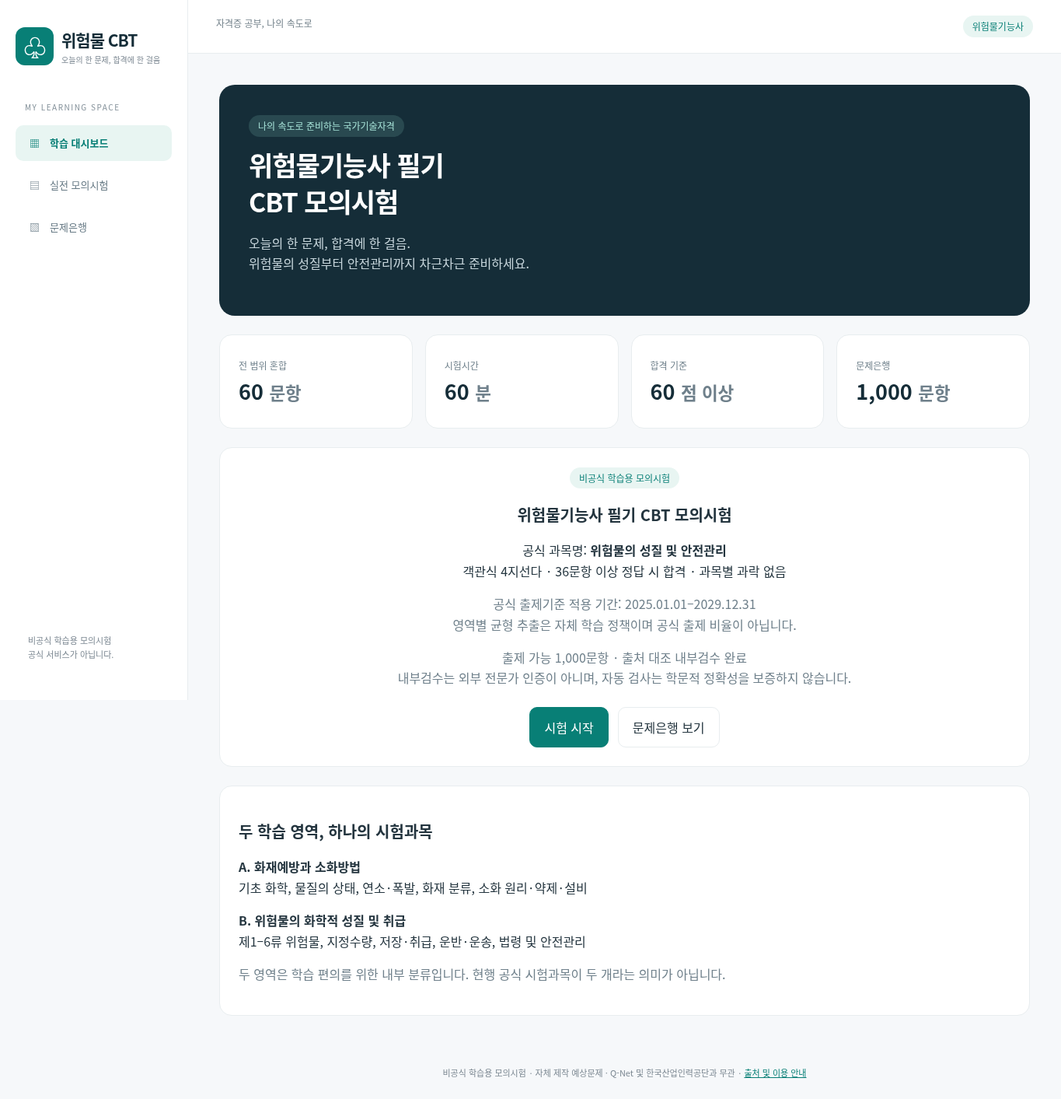
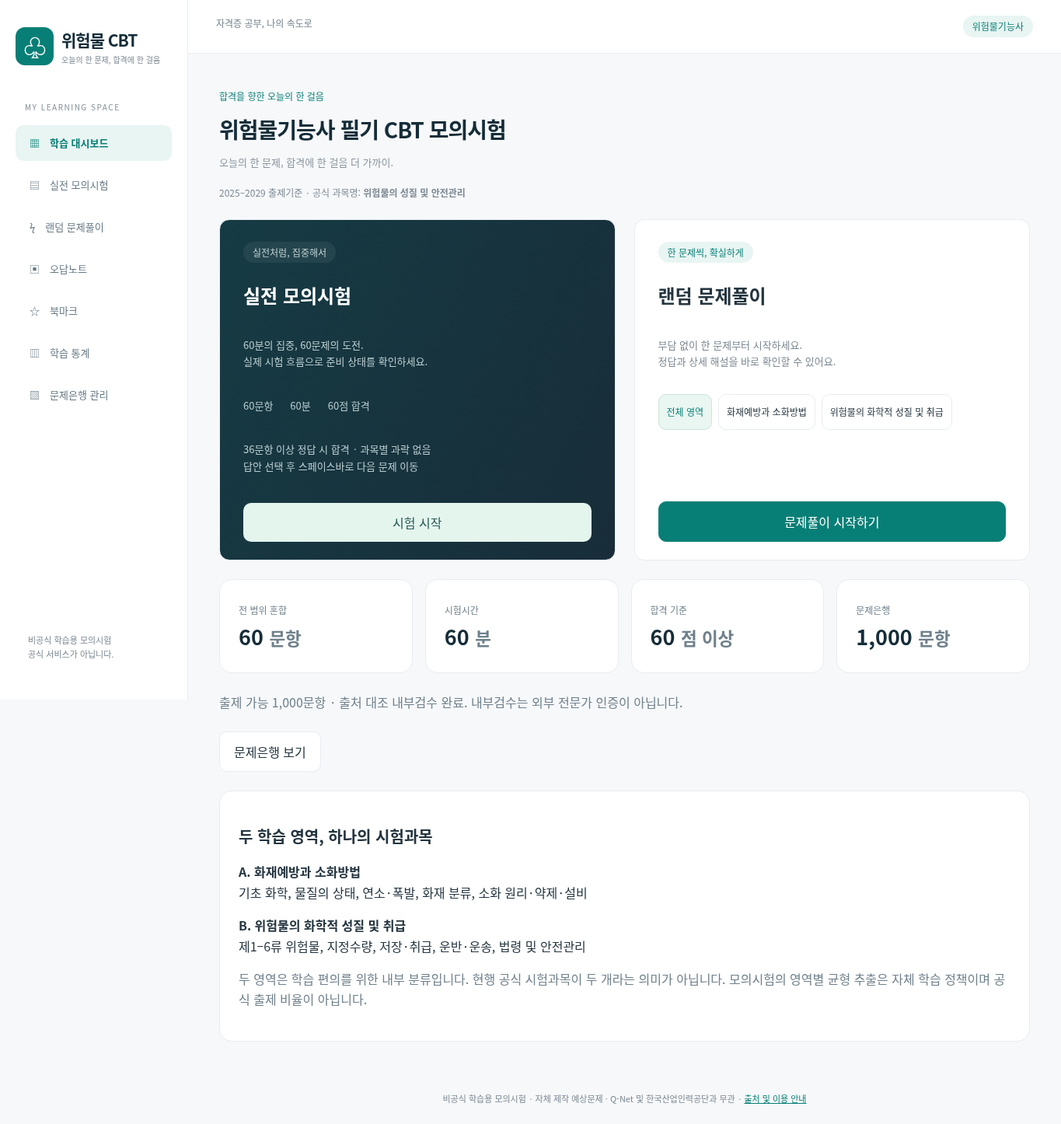
Match electrician CBT study modes and Space navigation

diff --git a/src/app.js b/src/app.js
@@ -1,28 +1,58 @@
+import {PRACTICE_KEY,LEARNING_KEY,createPractice,choosePractice,nextPractice,restorePractice,emptyLearning,restoreLearning,recordAttempt} from './practice.js';
 import {SUBJECT, AREAS, STORAGE_KEY, eligible, createExam, remaining, answer, submit, grade, restore} from './model.js';
 const app = document.querySelector('#app'), notice = document.querySelector('#notice');
 let sourceRegistry = {}, bank = [], exam = null, view = 'home', filter = '', area = '', page = 0, reviewOnly = true, safeStorage = true;
+let practice=null, practiceArea='', learning=emptyLearning();
+const blockedStorage=new Set();
 const esc = v => String(v).replace(/[&<>"']/g, c => ({'&':'&amp;','<':'&lt;','>':'&gt;','"':'&quot;',"'":'&#39;'}[c]));
 function save() {
   if (!safeStorage) return;
   try { localStorage.setItem(STORAGE_KEY, JSON.stringify(exam)); }
   catch { notice.textContent = '기록 저장이 차단되었거나 공간이 부족합니다. 이 창에서는 계속 풀 수 있지만 새로고침 시 복원되지 않을 수 있습니다.'; }
 }
-function go(next) { view = next; render(); app.focus(); }
+function saveStudy(key,value){
+ if(blockedStorage.has(key))return;
+ try{localStorage.setItem(key,JSON.stringify(value));}catch{blockedStorage.add(key);notice.textContent='학습 기록을 저장할 수 없습니다. 현재 창에서 계속 학습할 수 있지만 새로고침 시 복원되지 않을 수 있습니다.';}
+}
+function focusQuestion(scroll=false){document.querySelector('#question-title')?.focus({preventScroll:!scroll});if(scroll)window.scrollTo({top:0});}
+function startPractice(fresh=true,ids=null){
+ try{if(fresh||!practice)practice=createPractice(bank,ids?'':practiceArea,Math.random,ids);saveStudy(PRACTICE_KEY,practice);go('practice');focusQuestion(true);}catch(e){notice.textContent=e.message;}
+}
+function advancePractice(){if(!practice||practice.selected===null)return;practice=nextPractice(practice);saveStudy(PRACTICE_KEY,practice);render();focusQuestion(true);}
+function currentQuestion(){return view==='exam'&&exam?bank.find(q=>q.id===exam.ids[exam.index]):view==='practice'&&practice?bank.find(q=>q.id===practice.ids[practice.index]):null;}
+function bookmarkButton(q){const marked=learning.bookmarks.includes(q.id);return `<button data-bookmark="${esc(q.id)}" aria-pressed="${marked}" class="bookmark-button">${marked?'★ 북마크 해제':'☆ 북마크'}</button>`;}
+function recordExam(){
+ if(!exam||exam.submittedAt===null)return;
+ const id=`${exam.startedAt}:${exam.ids.join(',')}`;if(learning.completedExams.includes(id))return;
+ for(const qid of exam.ids)learning=recordAttempt(learning,bank.find(q=>q.id===qid),exam.answers[qid]||0);
+ const r=grade(exam,bank);learning={...learning,completedExams:[...learning.completedExams,id],exams:[{at:exam.submittedAt,score:r.score,correct:r.correct,passed:r.passed},...learning.exams].slice(0,100)};saveStudy(LEARNING_KEY,learning);
+}
+function practicePicker(){return `<div class="subject-picker">${['',...AREAS].map(a=>`<button data-practice-area="${esc(a)}" class="${practiceArea===a?'picked':''}" aria-pressed="${practiceArea===a}">${a?esc(a):'전체 영역'}</button>`).join('')}</div>`;}
+function practiceScreen(){
+ if(!practice)return `<h1>랜덤 문제풀이</h1><section class="panel center"><span class="tag">한 문제씩, 확실하게</span><h2>어떤 영역을 공부할까요?</h2><p>답안을 선택하면 정답과 상세 해설을 바로 확인할 수 있습니다.</p>${practicePicker()}<div class="actions">${action('문제풀이 시작하기','practiceStart','primary')}</div></section>`;
+ const q=currentQuestion(),revealed=practice.selected!==null,correct=practice.selected===q.answer;
+ return `<h1>랜덤 문제풀이</h1><p class="muted">한 문제씩 이해하고, 해설로 확실하게 내 것으로 만드세요.</p><div class="practice-toolbar"><span class="tag">${esc(practice.area||'전체 영역')}</span><span>연속 정답 <b>${practice.streak}</b></span><span>이번 학습 정답률 <b>${practice.answered?Math.round(practice.correct/practice.answered*100):0}%</b> (${practice.correct}/${practice.answered})</span><label>학습 영역 변경 <select id="practice-area"><option value="">전체 영역</option>${AREAS.map(a=>`<option ${practice.area===a?'selected':''}>${esc(a)}</option>`).join('')}</select></label></div><section class="panel practice-question"><div class="question-meta"><span class="tag">${esc(q.topic)} · ${esc(q.difficulty)}</span>${bookmarkButton(q)}</div><p class="muted">${practice.cycle}번째 순회 · ${practice.index+1} / ${practice.ids.length}문항</p><h2 class="question" id="question-title" tabindex="-1">${esc(q.question)}</h2><div class="choices" role="group" aria-label="답안 선택">${q.options.map((v,i)=>`<button class="choice ${practice.selected===i+1?'selected':''} ${revealed&&q.answer===i+1?'answer-correct':''}" data-practice-choice="${i+1}" aria-pressed="${practice.selected===i+1}" ${revealed?'disabled':''}><b>${i+1}</b><span>${esc(v)}${revealed&&q.answer===i+1?' (정답)':''}</span></button>`).join('')}</div>${revealed?`<div class="answer-feedback ${correct?'good':'bad'}" role="status">${correct?'정답입니다! 잘하고 있어요.':`아쉬워요. 정답은 ${q.answer}번입니다.`}</div><div class="practice-explanation"><h3>정답 해설</h3><p>${esc(q.explanation)}</p><details class="evidence"><summary>출처 및 출제기준</summary><p>${esc(q.criterion)}</p>${q.review.evidence.map(e=>`<p>${esc(sourceRegistry[e.sourceId]?.title||e.sourceId)} · ${esc(e.locator)}</p>`).join('')}</details></div>`:''}<div class="actions">${action('다음 문제 →','practiceNext','primary',!revealed)}</div><p class="muted">답안을 선택하면 즉시 채점됩니다. 채점 후 <kbd>Space</kbd> 키로 다음 문제로 이동할 수 있습니다.</p></section>`;
+}
+function collectionScreen(kind){
+ const ids=kind==='wrong'?Object.keys(learning.wrong):learning.bookmarks,items=bank.filter(q=>ids.includes(q.id));
+ return `<h1>${kind==='wrong'?'오답노트':'북마크'}</h1><p>${items.length}문항 · ${kind==='wrong'?'틀린 문제와 미응답을 다시 확인하고, 맞힌 문제는 자동으로 제외합니다.':'다시 보고 싶은 문제를 모았습니다.'}</p>${items.length?`<div class="actions">${action(kind==='wrong'?'오답 다시 풀기':'북마크 문제 풀기',kind==='wrong'?'wrongPractice':'bookmarkPractice','primary')}</div>${items.map((q,i)=>`<details class="collection-item"><summary>${esc(q.id)} · ${esc(q.question.slice(0,160))}</summary>${bookmarkButton(q)}${reviewCard(q,i,learning.wrong[q.id]||null,kind!=='wrong')}</details>`).join('')}`:'<section class="panel center">아직 저장된 문제가 없습니다. 문제풀이를 시작해 보세요.</section>'}`;
+}
+function statsScreen(){return `<h1>학습 통계</h1><p class="muted">실전 모의시험과 랜덤 문제풀이 기록으로 학습의 방향을 찾아보세요.</p><div class="cards"><div class="card"><span>학습한 문제</span><strong>${learning.total}</strong></div><div class="card"><span>전체 정답률</span><strong>${learning.total?Math.round(learning.correct/learning.total*100):0}%</strong></div><div class="card"><span>오답노트</span><strong>${Object.keys(learning.wrong).length}</strong></div><div class="card"><span>완료한 시험</span><strong>${learning.completedExams.length}</strong></div></div><section class="panel"><h2>학습 영역별 정답률</h2>${AREAS.map(a=>{const r=learning.areas[a]||{total:0,correct:0};return `<p>${esc(a)} · ${r.correct} / ${r.total} (${r.total?Math.round(r.correct/r.total*100):0}%)</p>`;}).join('')}</section><section class="panel history-panel"><h2>최근 모의시험 기록</h2>${learning.exams.length?learning.exams.slice(0,20).map(e=>`<p>${esc(new Date(e.at).toLocaleString('ko-KR'))} · ${e.score.toFixed(1)}점 · ${e.passed?'합격':'불합격'}</p>`).join(''):'<p class="muted">아직 완료한 모의시험이 없습니다.</p>'}</section>`;}
+function go(next) { view = next; saveStudy('hazardous-materials-cbt:last-view',next);render(); app.focus(); }
 function action(label, id, cls = '', disabled = false) { return `<button data-action="${id}" class="${cls}" ${disabled ? 'disabled' : ''}>${label}</button>`; }
 function home() {
-  const count = bank.filter(eligible).length;
-  return `<section class="hero"><span class="tag">나의 속도로 준비하는 국가기술자격</span><h1>위험물기능사 필기<br>CBT 모의시험</h1><p>오늘의 한 문제, 합격에 한 걸음.<br>위험물의 성질부터 안전관리까지 차근차근 준비하세요.</p></section>
-  <div class="cards"><div class="card"><span>전 범위 혼합</span><strong>60 <small>문항</small></strong></div><div class="card"><span>시험시간</span><strong>60 <small>분</small></strong></div><div class="card"><span>합격 기준</span><strong>60 <small>점 이상</small></strong></div><div class="card"><span>문제은행</span><strong>1,000 <small>문항</small></strong></div></div>
-  <section class="panel center"><span class="tag">비공식 학습용 모의시험</span><h2>위험물기능사 필기 CBT 모의시험</h2><p>공식 과목명: <b>${SUBJECT}</b><br>객관식 4지선다 · 36문항 이상 정답 시 합격 · 과목별 과락 없음</p><p class="muted">공식 출제기준 적용 기간: 2025.01.01–2029.12.31<br>영역별 균형 추출은 자체 학습 정책이며 공식 출제 비율이 아닙니다.</p>
-  ${count === 1000 ? '<p class="muted">출제 가능 1,000문항 · 출처 대조 내부검수 완료<br>내부검수는 외부 전문가 인증이 아니며, 자동 검사는 학문적 정확성을 보증하지 않습니다.</p>' : ''}
-  ${count !== 1000 ? `<div class="warning">문제은행 준비 중 · 출제 가능 ${count.toLocaleString()} / 1,000문항<br>실제 수록 ${bank.length}문항 · 정확성 검수 대기 ${bank.filter(q=>!eligible(q)).length}문항<br>원문 대조·내부검수를 마친 문항만 출제 대상으로 관리합니다. 1,000문항 확보 전에는 시험을 시작하지 않습니다.</div>` : ''}
-  <div class="actions">${action(exam && exam.submittedAt === null ? '시험 이어하기' : '시험 시작', 'start', 'primary', count !== 1000)}${action('문제은행 보기', 'bank')}</div></section>
-  <section class="panel" style="margin-top:24px"><h2>두 학습 영역, 하나의 시험과목</h2><p><b>A. ${AREAS[0]}</b><br>기초 화학, 물질의 상태, 연소·폭발, 화재 분류, 소화 원리·약제·설비</p><p><b>B. ${AREAS[1]}</b><br>제1–6류 위험물, 지정수량, 저장·취급, 운반·운송, 법령 및 안전관리</p><p class="muted">두 영역은 학습 편의를 위한 내부 분류입니다. 현행 공식 시험과목이 두 개라는 의미가 아닙니다.</p></section>`;
+ const count=bank.filter(eligible).length;
+ return `<section class="hero"><span class="tag">합격을 향한 오늘의 한 걸음</span><h1>위험물기능사 필기 CBT 모의시험</h1><p>오늘의 한 문제, 합격에 한 걸음 더 가까이.</p></section><p class="criteria-note">2025–2029 출제기준 · 공식 과목명: <b>${SUBJECT}</b></p>
+ <div class="mode-grid" aria-label="시험 모드"><section class="panel exam-mode"><span class="tag">실전처럼, 집중해서</span><h2>실전 모의시험</h2><p>60분의 집중, 60문제의 도전.<br>실제 시험 흐름으로 준비 상태를 확인하세요.</p><div class="mode-facts"><span>60문항</span><span>60분</span><span>60점 합격</span></div><p class="muted">36문항 이상 정답 시 합격 · 과목별 과락 없음<br>답안 선택 후 스페이스바로 다음 문제 이동</p><div class="actions">${action(exam&&exam.submittedAt===null?'시험 이어하기':'시험 시작','start','primary',count!==1000)}</div></section>
+ <section class="panel practice-mode"><span class="tag">한 문제씩, 확실하게</span><h2>랜덤 문제풀이</h2><p>부담 없이 한 문제부터 시작하세요.<br>정답과 상세 해설을 바로 확인할 수 있어요.</p>${practicePicker()}<div class="actions">${action('문제풀이 시작하기','practiceStart','primary',count!==1000)}${practice?action('이전 학습 이어하기','practiceContinue'):''}</div></section></div>
+ <div class="cards"><div class="card"><span>전 범위 혼합</span><strong>60 <small>문항</small></strong></div><div class="card"><span>시험시간</span><strong>60 <small>분</small></strong></div><div class="card"><span>합격 기준</span><strong>60 <small>점 이상</small></strong></div><div class="card"><span>문제은행</span><strong>1,000 <small>문항</small></strong></div></div>
+ ${count===1000?'<p class="muted">출제 가능 1,000문항 · 출처 대조 내부검수 완료. 내부검수는 외부 전문가 인증이 아닙니다.</p>':`<div class="warning">문제은행 준비 중 · 출제 가능 ${count.toLocaleString()} / 1,000문항<br>실제 수록 ${bank.length}문항 · 검수 대기 ${bank.filter(q=>!eligible(q)).length}문항</div>`}
+ <div class="actions">${action('문제은행 보기','bank')}</div><section class="panel history-panel"><h2>두 학습 영역, 하나의 시험과목</h2><p><b>A. ${AREAS[0]}</b><br>기초 화학, 물질의 상태, 연소·폭발, 화재 분류, 소화 원리·약제·설비</p><p><b>B. ${AREAS[1]}</b><br>제1–6류 위험물, 지정수량, 저장·취급, 운반·운송, 법령 및 안전관리</p><p class="muted">두 영역은 학습 편의를 위한 내부 분류입니다. 현행 공식 시험과목이 두 개라는 의미가 아닙니다. 모의시험의 영역별 균형 추출은 자체 학습 정책이며 공식 출제 비율이 아닙니다.</p></section>`;
 }
 function examScreen() {
   const q = bank.find(q => q.id === exam.ids[exam.index]);
   const answered = Object.keys(exam.answers).length;
-  return `<div class="exam-top"><div><span class="tag">실전 모의시험</span><b>　${exam.index + 1} / 60</b></div><div aria-label="남은 시간" class="timer" id="timer"></div></div><div class="exam-grid"><section class="panel"><span class="muted">${esc(q.area)} · ${esc(q.topic)}</span><h1 class="question" id="question-title" tabindex="-1">${exam.index+1}. ${esc(q.question)}</h1><div class="choices" role="group" aria-label="답안 선택">${q.options.map((c,i) => `<button class="choice ${exam.answers[q.id] === i+1 ? 'selected' : ''}" data-choice="${i+1}" aria-pressed="${exam.answers[q.id] === i+1}"><b>${i+1}</b><span>${esc(c)}</span></button>`).join('')}</div><div class="actions">${action('← 이전 문제','prev','',exam.index===0)}${action('다음 문제 →','next','primary',exam.index===59)}</div></section><section class="panel"><h2>답안 현황</h2><p>${answered}문항 응답 · 미응답 ${60-answered}문항</p><progress value="${answered}" max="60" aria-label="응답 진행률"></progress><div class="numbers">${exam.ids.map((id,i) => `<button data-index="${i}" class="${exam.answers[id] ? 'answered' : ''} ${exam.index===i?'current':''}" aria-label="${i+1}번 ${exam.answers[id]?'응답':'미응답'}" ${exam.index===i?'aria-current="true"':''}>${i+1}</button>`).join('')}</div><div class="actions">${action('미응답 확인','unanswered')}${action('시험 종료','finish','primary')}</div><p class="muted">초록색: 응답 완료<br>테두리: 현재 문제<br>답안은 제출 전까지 변경할 수 있습니다.</p></section></div>`;
+  return `<div class="exam-top"><div><span class="tag">실전 모의시험</span><b>　${exam.index + 1} / 60</b></div><div aria-label="남은 시간" class="timer" id="timer"></div></div><div class="exam-grid"><section class="panel"><div class="question-meta"><span class="muted">${esc(q.area)} · ${esc(q.topic)}</span>${bookmarkButton(q)}</div><h1 class="question" id="question-title" tabindex="-1">${exam.index+1}. ${esc(q.question)}</h1><div class="choices" role="group" aria-label="답안 선택">${q.options.map((c,i) => `<button class="choice ${exam.answers[q.id] === i+1 ? 'selected' : ''}" data-choice="${i+1}" aria-pressed="${exam.answers[q.id] === i+1}"><b>${i+1}</b><span>${esc(c)}</span></button>`).join('')}</div><div class="actions">${action('← 이전 문제','prev','',exam.index===0)}${action('다음 문제 →','next','primary',exam.index===59)}</div><p class="muted">답안 선택 후 <kbd>Space</kbd> 키로 다음 문제로 이동합니다. 마지막 문제는 직접 제출하세요.</p></section><section class="panel"><h2>답안 현황</h2><p>${answered}문항 응답 · 미응답 ${60-answered}문항</p><progress value="${answered}" max="60" aria-label="응답 진행률"></progress><div class="numbers">${exam.ids.map((id,i) => `<button data-index="${i}" class="${exam.answers[id] ? 'answered' : ''} ${exam.index===i?'current':''}" aria-label="${i+1}번 ${exam.answers[id]?'응답':'미응답'}" ${exam.index===i?'aria-current="true"':''}>${i+1}</button>`).join('')}</div><div class="actions">${action('미응답 확인','unanswered')}${action('시험 종료','finish','primary')}</div><p class="muted">초록색: 응답 완료<br>테두리: 현재 문제<br>답안은 제출 전까지 변경할 수 있습니다.</p></section></div>`;
 }
 function resultScreen() {
   const r = grade(exam, bank);
@@ -43,10 +73,10 @@ function bankScreen() {
 }
 function render() {
   document.querySelectorAll('[data-view]').forEach(b=>b.classList.toggle('active', b.dataset.view===view));
-  app.innerHTML = view==='home'?home():view==='exam'?examScreen():view==='result'?resultScreen():view==='review'?reviewScreen():bankScreen();
+  app.innerHTML = view==='home'?home():view==='exam'?examScreen():view==='practice'?practiceScreen():view==='wrong'||view==='bookmarks'?collectionScreen(view):view==='stats'?statsScreen():view==='result'?resultScreen():view==='review'?reviewScreen():bankScreen();
   tick();
 }
-function finish() { if (!exam || exam.submittedAt!==null) return; exam=submit(exam); save(); go('result'); }
+function finish() { if (!exam || exam.submittedAt!==null) return; exam=submit(exam); save();recordExam(); go('result'); }
 function tick() {
   if (!exam || exam.submittedAt!==null) return;
   const seconds = remaining(exam);
@@ -70,13 +100,16 @@ function start(fresh = false) {
 document.addEventListener('click',e=>{
   const b=e.target.closest('button');if(!b || b.disabled)return;
   tick();
+  if(b.dataset.bookmark){const id=b.dataset.bookmark;if(bank.some(q=>q.id===id)){learning={...learning,bookmarks:learning.bookmarks.includes(id)?learning.bookmarks.filter(x=>x!==id):[...learning.bookmarks,id]};saveStudy(LEARNING_KEY,learning);render();}return;}
+  if(b.hasAttribute('data-practice-area')){practiceArea=b.dataset.practiceArea;render();return;}
+  if(view==='practice'&&practice&&b.dataset.practiceChoice){const next=choosePractice(practice,bank,Number(b.dataset.practiceChoice));if(next!==practice){learning=recordAttempt(learning,currentQuestion(),Number(b.dataset.practiceChoice));practice=next;saveStudy(PRACTICE_KEY,practice);saveStudy(LEARNING_KEY,learning);render();focusQuestion();}return;}
   if(b.dataset.view){if(b.dataset.view==='exam')start();else go(b.dataset.view);return;}
   if(view==='exam' && exam.submittedAt===null) {
-    if(b.dataset.choice){exam=answer(exam,exam.ids[exam.index],Number(b.dataset.choice));save();render();return;}
+    if(b.dataset.choice){exam=answer(exam,exam.ids[exam.index],Number(b.dataset.choice));save();render();focusQuestion();return;}
     if(b.dataset.index!==undefined){exam={...exam,index:Number(b.dataset.index)};save();render();document.querySelector('#question-title').focus();return;}
   }
   switch(b.dataset.action){
-    case 'start':start();break;case 'restart':start(true);break;case 'bank':go('bank');break;
+    case 'practiceStart':startPractice();break;case 'practiceContinue':startPractice(false);break;case 'practiceNext':advancePractice();break;case 'wrongPractice':startPractice(true,Object.keys(learning.wrong));break;case 'bookmarkPractice':startPractice(true,learning.bookmarks);break;case 'start':start();break;case 'restart':start(true);break;case 'bank':go('bank');break;
     case 'prev':case 'next':if(view!=='exam'||exam.submittedAt!==null)break;exam={...exam,index:Math.max(0,Math.min(59,exam.index+(b.dataset.action==='next'?1:-1)))};save();render();document.querySelector('#question-title').focus();break;
     case 'unanswered':{if(view!=='exam')break;const idx=exam.ids.findIndex(id=>!exam.answers[id]);if(idx>=0){exam={...exam,index:idx};save();render();document.querySelector('#question-title').focus();}else notice.textContent='모든 문제에 응답했습니다.';break;}
     case 'finish':if(view==='exam'&&exam.submittedAt===null)confirmFinish();break;
@@ -85,11 +118,21 @@ document.addEventListener('click',e=>{
   }
 });
 document.addEventListener('input',e=>{if(e.target.id==='search'){filter=e.target.value;page=0;const pos=e.target.selectionStart;render();const el=document.querySelector('#search');el.focus();el.setSelectionRange(pos,pos);}});
-document.addEventListener('change',e=>{if(e.target.id==='area'){area=e.target.value;page=0;render();}});
+document.addEventListener('change',e=>{if(e.target.id==='practice-area'){practiceArea=e.target.value;startPractice();return;}if(e.target.id==='area'){area=e.target.value;page=0;render();}});
+document.addEventListener('keydown',e=>{
+ if(e.defaultPrevented||(e.code!=='Space'&&e.key!==' ')||e.repeat||e.isComposing||e.altKey||e.ctrlKey||e.metaKey||e.shiftKey||document.querySelector('dialog[open]')||!['exam','practice'].includes(view))return;
+ if(e.target instanceof Element&&e.target.closest('input,textarea,select,[contenteditable]:not([contenteditable="false"]),[role="textbox"],button:not(:disabled),a,summary,[role="button"]'))return;
+ tick();
+ if(view==='practice'&&practice?.selected!==null&&practice){e.preventDefault();advancePractice();}
+ else if(view==='exam'&&exam?.submittedAt===null&&exam.answers[exam.ids[exam.index]]&&exam.index<59&&remaining(exam)>0){e.preventDefault();exam={...exam,index:exam.index+1};save();render();focusQuestion(true);}
+});
 window.addEventListener('pageshow',tick);document.addEventListener('visibilitychange',tick);
-window.addEventListener('storage',e=>{if(e.key===STORAGE_KEY){safeStorage=false;notice.textContent='다른 탭에서 시험 기록이 변경되었습니다. 충돌을 막기 위해 이 탭의 저장을 중지했습니다. 새로고침 후 계속하세요.';}});
+window.addEventListener('storage',e=>{if([PRACTICE_KEY,LEARNING_KEY].includes(e.key)){blockedStorage.add(e.key);notice.textContent='다른 탭에서 학습 기록이 변경되었습니다. 새로고침 후 계속하세요.';}if(e.key===STORAGE_KEY){safeStorage=false;notice.textContent='다른 탭에서 시험 기록이 변경되었습니다. 충돌을 막기 위해 이 탭의 저장을 중지했습니다. 새로고침 후 계속하세요.';}});
 try {
   const response=await fetch(new URL('../data/questions.json',import.meta.url));if(!response.ok)throw new Error('문제은행을 불러오지 못했습니다.');bank=await response.json();const sourceResponse=await fetch(new URL('../data/sources.json',import.meta.url));if(!sourceResponse.ok)throw new Error('출처 정보를 불러오지 못했습니다.');sourceRegistry=await sourceResponse.json();
   try{const raw=localStorage.getItem(STORAGE_KEY);exam=raw==='null'?null:restore(raw,bank);}catch(e){safeStorage=false;notice.textContent=e.message;}
-  view=exam?(exam.submittedAt===null?'exam':'result'):'home';render();setInterval(tick,1000);
+  try{practice=restorePractice(localStorage.getItem(PRACTICE_KEY),bank);practiceArea=practice?.area||'';}catch(e){blockedStorage.add(PRACTICE_KEY);notice.textContent=e.message;}
+  try{learning=restoreLearning(localStorage.getItem(LEARNING_KEY),bank);}catch(e){blockedStorage.add(LEARNING_KEY);notice.textContent=e.message;}
+  recordExam();
+  view=exam?(exam.submittedAt===null?'exam':'result'):'home';try{if(practice&&JSON.parse(localStorage.getItem('hazardous-materials-cbt:last-view'))==='practice')view='practice';}catch{}render();setInterval(tick,1000);
 } catch(e){app.textContent=`실행 오류: ${e.message} 페이지를 다시 불러와 주세요.`;}

diff --git a/src/styles.css b/src/styles.css
@@ -2,3 +2,10 @@
 :root{font-family:"Noto Sans KR",-apple-system,BlinkMacSystemFont,"Segoe UI",sans-serif;color:#24353f;background:#f6f8fa;--teal:#087f76;--navy:#152d38;--line:#e8edef;line-height:1.65}*{box-sizing:border-box}body{margin:0}button,input,select{font:inherit}button,a{touch-action:manipulation}button{cursor:pointer;color:inherit;border:1px solid var(--line);background:white;border-radius:10px;padding:12px 18px;min-height:46px}button:hover:not(:disabled){border-color:var(--teal);background:#eef8f6}button:disabled{opacity:.5;cursor:not-allowed}button:focus-visible,a:focus-visible,input:focus-visible,select:focus-visible{outline:3px solid #55bdb1;outline-offset:3px}a{color:var(--teal)}aside{position:fixed;inset:0 auto 0 0;width:242px;background:white;border-right:1px solid var(--line);padding:34px 20px;display:flex;flex-direction:column}.brand{display:flex;align-items:center;gap:10px;text-decoration:none;color:var(--navy);font-size:21px;font-weight:800;letter-spacing:-1px}.brand small{display:block;font-size:10px;font-weight:400;color:#7d8993;letter-spacing:0}.symbol{background:var(--teal);color:white;padding:0 10px;border-radius:12px;font-size:30px}.caption{font-size:10px;letter-spacing:1.5px;color:#839099;margin:45px 12px 14px}nav{display:grid;gap:8px}nav button{text-align:left;border:0;color:#687b86;font-size:13px}nav button.active{background:#e8f5f2;color:var(--teal);font-weight:700}.aside-bottom{margin-top:auto;font-size:11px;color:#7d8993;padding:16px}.shell{margin-left:242px}header{padding:20px 36px;background:#fff;border-bottom:1px solid var(--line);display:flex;justify-content:space-between;font-size:12px;color:#72818a}.badge,.tag{display:inline-block;border-radius:30px;padding:4px 12px;background:#e8f5f2;color:var(--teal);font-size:12px}main{max-width:1200px;margin:auto;padding:40px}h1{font-size:clamp(24px,3vw,34px);line-height:1.4;letter-spacing:-1px;margin:12px 0}h2{font-size:20px}h3{font-size:16px}.muted,small{color:#6f808b}.hero{padding:38px;background:var(--navy);color:#fff;border-radius:20px}.hero p{color:#c7d6dc}.hero .tag{background:#294950;color:#a6e2d7}.cards{display:grid;grid-template-columns:repeat(4,1fr);gap:16px;margin:24px 0}.card,.panel{background:#fff;border:1px solid var(--line);border-radius:16px;padding:24px}.card strong{display:block;font-size:27px;color:var(--navy)}.card span{font-size:12px;color:#6f808b}.warning{border:1px solid #edcf97;background:#fff9eb;border-radius:12px;padding:16px;color:#79511d;margin:18px 0;font-size:14px}.primary{background:var(--teal);color:white;border-color:var(--teal)}.primary:hover:not(:disabled){background:#06675f;color:white}.center{text-align:center}.actions{display:flex;gap:12px;flex-wrap:wrap;margin-top:24px}.center .actions{justify-content:center}.exam-grid{display:grid;grid-template-columns:minmax(0,1fr) 240px;gap:24px}.exam-top{display:flex;align-items:center;justify-content:space-between;position:sticky;top:0;background:#f6f8faf5;z-index:5;padding:12px 0;margin-bottom:16px}.timer{font-variant-numeric:tabular-nums;font-size:22px;color:var(--teal);font-weight:800}.timer.urgent{color:#bb3535}.question{font-size:20px;overflow-wrap:anywhere;white-space:pre-wrap;margin:22px 0}.choices{display:grid;gap:12px}.choice{text-align:left;display:flex;align-items:flex-start;gap:14px;padding:16px}.choice.selected{border:2px solid var(--teal);background:#e8f5f2}.choice b{border:1px solid #cbd5d9;border-radius:50%;width:28px;height:28px;flex-shrink:0;text-align:center}.numbers{display:grid;grid-template-columns:repeat(5,1fr);gap:6px}.numbers button{padding:3px;min-height:38px;border-radius:7px;font-size:12px}.numbers .answered{background:#e8f5f2;color:var(--teal)}.numbers .current{border:2px solid var(--teal)}progress{width:100%;accent-color:var(--teal)}.result-score{font-size:58px;font-weight:800;color:var(--teal)}.fail{color:#b14343}.review{margin:18px 0;overflow-wrap:anywhere}.review .correct{background:#edf7f2;padding:12px;border-radius:8px}.review .incorrect{color:#b14343}.review ol{padding-left:24px}.filters{display:flex;gap:12px;flex-wrap:wrap;margin-bottom:20px}input,select{padding:12px;border:1px solid #d8e0e3;border-radius:9px;max-width:100%;background:white}input{flex:1;min-width:150px}.pagination{display:flex;align-items:center;gap:15px;margin:20px 0}footer{padding:24px;text-align:center;color:#7d8993;font-size:11px}#notice:not(:empty){padding:14px;background:#fff1d7;color:#79511d}dialog{border:0;border-radius:18px;max-width:440px;width:calc(100% - 32px);padding:28px}dialog::backdrop{background:#152d3870}dialog .actions{justify-content:flex-end}details summary{cursor:pointer} .mono{font-variant-numeric:tabular-nums}
 @media(max-width:1000px){aside{width:205px;padding:24px 12px}.shell{margin-left:205px}main{padding:24px}.exam-grid{grid-template-columns:minmax(0,1fr)}.numbers{grid-template-columns:repeat(10,minmax(0,1fr))}.cards{gap:10px}.card{padding:16px}}
 @media(max-width:680px){aside{position:static;width:100%;padding:16px;border-right:0;border-bottom:1px solid var(--line)}.brand{font-size:19px}.caption,.aside-bottom{display:none}nav{display:flex;gap:6px;margin-top:16px}nav button{flex:1;font-size:11px;padding:9px 4px}.shell{margin:0}header{padding:12px 18px}main{padding:20px 14px}.hero{padding:26px 22px}.cards{grid-template-columns:repeat(2,1fr)}.panel{padding:20px 16px}.question{font-size:18px}.choices button{font-size:15px}.exam-top{top:0}.numbers{grid-template-columns:repeat(6,minmax(0,1fr))}.filters>*{width:100%}h1{font-size:25px}footer{padding:18px}.actions button{flex:1}.badge{font-size:10px}}
+.mode-grid{display:grid;grid-template-columns:1fr 1fr;gap:24px}.mode-grid .panel{display:flex;flex-direction:column;align-items:center}.mode-grid h2{font-size:26px}.mode-grid .actions{margin-top:auto;padding-top:24px}.practice-mode{background:linear-gradient(145deg,#fff,#edf8f5)}.subject-picker{display:flex;gap:8px;flex-wrap:wrap;justify-content:center;margin:20px 0}.subject-picker button{font-size:13px;padding:9px 12px}.subject-picker .picked{background:var(--teal);color:white;border-color:var(--teal)}.practice-toolbar{display:flex;align-items:center;gap:16px;flex-wrap:wrap;margin:20px 0}.practice-toolbar label{margin-left:auto;font-size:12px}.practice-toolbar select{max-width:260px}.question-meta{display:flex;align-items:center;justify-content:space-between;gap:12px}.bookmark-button{font-size:12px;padding:8px 12px;flex-shrink:0}.bookmark-button[aria-pressed=true]{color:#8d6200;background:#fff8df;border-color:#e4c968}.answer-feedback{padding:16px;border-radius:10px;margin:20px 0;font-weight:700}.answer-feedback.good{background:#e8f5f2;color:#087f76}.answer-feedback.bad{background:#fff0ee;color:#a53636}.choice:disabled{opacity:1}.choice.answer-correct{background:#e8f5f2;border:2px solid var(--teal)}.practice-explanation{background:#f6f8fa;padding:20px;border-radius:12px;overflow-wrap:anywhere}.practice-question{overflow-wrap:anywhere}.practice-question .question{white-space:pre-wrap}kbd{border:1px solid #cbd5d9;background:white;border-radius:5px;padding:2px 7px;font-size:12px}.collection-item{margin:16px 0}.history-panel{margin-top:24px}#question-title{scroll-margin-top:90px}
+@media(max-width:1000px){.mode-grid{grid-template-columns:1fr}.practice-toolbar label{margin-left:0}}
+@media(max-width:680px){nav{display:grid;grid-template-columns:repeat(4,minmax(0,1fr))}nav button{min-width:0;font-size:11px}.practice-toolbar{gap:10px}.practice-toolbar label,.practice-toolbar select{width:100%;max-width:100%}.question-meta{align-items:flex-start}.question-meta>.muted{min-width:0}.subject-picker{width:100%}.subject-picker button{width:100%}.mode-grid .actions{width:100%}}
+/* Match the reference dashboard: quiet heading, navy exam card, white practice card. */
+.hero{padding:0;background:transparent;color:var(--navy);border-radius:0}.hero h1{font-size:28px}.hero p{color:#8b969e;font-size:13px;margin:8px 0}.hero .tag{background:transparent;color:var(--teal);padding:0}.criteria-note{font-size:12px;color:#7d8993;margin:18px 0 24px}.mode-grid .panel{align-items:stretch;text-align:left;border-radius:13px;padding:28px 30px 23px}.mode-grid h2{font-size:24px;margin-top:22px}.mode-grid .tag{align-self:flex-start}.exam-mode{background:linear-gradient(115deg,#163b44,#182d39);color:white}.exam-mode p,.exam-mode .muted{color:#b9cccf;font-size:13px}.exam-mode .tag{background:#ffffff10;color:#bed0d2}.mode-facts{display:flex;gap:22px;margin:22px 0;color:#b5c9cb;font-size:13px}.exam-mode .primary{background:#e4f5ee;color:#265b52;border:0}.exam-mode .primary:hover:not(:disabled){background:#ccebdc;color:#265b52}.practice-mode{background:white}.practice-mode p{color:#7d8993;font-size:13px}.mode-grid .subject-picker{justify-content:flex-start;margin:18px 0}.mode-grid .actions{width:100%;gap:8px}.mode-grid .actions button{flex:1}.mode-grid .subject-picker button{font-size:12px;padding:8px 10px}.mode-grid .subject-picker .picked{background:#eaf6f1;color:var(--teal);border-color:#c9e4da}
+@media(max-width:680px){.hero h1{font-size:25px}.mode-grid .panel{padding:24px 20px}.mode-grid .subject-picker button{width:100%;min-height:44px}}
+.practice-question .choice.selected:disabled:not(.answer-correct){border-color:#cf6c61;background:#fff1ee}

diff --git a/tests/e2e/practice.spec.js b/tests/e2e/practice.spec.js
@@ -1,0 +1,31 @@
+import {test,expect} from '@playwright/test';
+import fs from 'node:fs';
+const bank=JSON.parse(fs.readFileSync(new URL('../../data/questions.json',import.meta.url)));
+const KEY='hazardous-materials-cbt:practice:v1',EXAM='hazardous-materials-cbt:v1';
+async function begin(page){await page.goto('/');await expect(page.locator('nav [data-view]')).toHaveCount(7);await expect(page.locator('.mode-grid > section')).toHaveCount(2);await page.getByRole('button',{name:'문제풀이 시작하기',exact:true}).click();}
+async function state(page){return page.evaluate(key=>JSON.parse(localStorage.getItem(key)),KEY);}
+test('real random practice: immediate grade, Space, restoration, wrong notes, bookmarks and stats',async({page})=>{
+ await begin(page);const first=await state(page);await page.keyboard.press('Space');expect((await state(page)).index).toBe(0);
+ const q=bank.find(q=>q.id===first.ids[0]);await page.locator(`[data-practice-choice="${q.answer%4+1}"]`).click();await expect(page.getByRole('status').filter({hasText:'아쉬워요'})).toBeVisible();await expect(page.locator('.practice-explanation')).toContainText(q.explanation);
+ await page.locator('main').getByRole('button',{name:'☆ 북마크',exact:true}).click();await page.locator('#question-title').focus();await page.keyboard.press('Space');let p=await state(page);expect(p.index).toBe(1);expect(p.ids).toEqual(first.ids);await expect(page.locator('.practice-explanation')).toHaveCount(0);
+ await page.reload();expect((await state(page)).index).toBe(1);await expect(page.getByRole('heading',{name:'랜덤 문제풀이',exact:true})).toBeVisible();
+ const second=bank.find(q=>q.id===p.ids[1]);await page.locator(`[data-practice-choice="${second.answer}"]`).click();await expect(page.locator('.answer-feedback')).toContainText('정답입니다');await expect(page.locator('.practice-toolbar')).toContainText('50%');
+ await page.locator('nav [data-view="wrong"]').click();await expect(page.locator('main > details')).toHaveCount(1);await page.getByRole('button',{name:'오답 다시 풀기',exact:true}).click();await page.locator(`[data-practice-choice="${q.answer}"]`).click();await page.locator('nav [data-view="wrong"]').click();await expect(page.locator('main > details')).toHaveCount(0);
+ await page.locator('nav [data-view="bookmarks"]').click();await expect(page.locator('main > details')).toHaveCount(1);await page.locator('nav [data-view="stats"]').click();await expect(page.locator('.cards')).toContainText('67%');
+ expect(await page.evaluate(()=>document.documentElement.scrollWidth<=innerWidth)).toBe(true);
+});
+test('area picker, focused controls and modified/held Space preserve native behavior',async({page})=>{
+ await page.goto('/');await page.locator('[data-practice-area]').filter({hasText:'화재예방과 소화방법'}).click();await page.getByRole('button',{name:'문제풀이 시작하기',exact:true}).click();let p=await state(page);expect(p.ids).toHaveLength(350);
+ const q=bank.find(q=>q.id===p.ids[0]);await page.locator(`[data-practice-choice="${q.answer}"]`).click();
+ await page.keyboard.press('Shift+Space');expect((await state(page)).index).toBe(0);await page.locator('[data-bookmark]').focus();await page.keyboard.press('Space');expect((await state(page)).index).toBe(0);await expect(page.locator('[data-bookmark]')).toHaveAttribute('aria-pressed','true');
+ await page.locator('#practice-area').focus();await page.keyboard.press('Space');await page.keyboard.press('Escape');expect((await state(page)).index).toBe(0);
+ await page.locator('#question-title').focus();await page.evaluate(()=>document.querySelector('#question-title').dispatchEvent(new KeyboardEvent('keydown',{key:' ',code:'Space',repeat:true,bubbles:true})));expect((await state(page)).index).toBe(0);
+ await page.keyboard.press('Space');expect((await state(page)).index).toBe(1);await page.locator('#practice-area').selectOption('위험물의 화학적 성질 및 취급');p=await state(page);expect(p.ids).toHaveLength(650);expect(p.index).toBe(0);
+});
+test('exam Space requires an answer, ignores dialog/controls and never submits the last question',async({page})=>{
+ await page.goto('/');await page.getByRole('button',{name:'시험 시작',exact:true}).click();await page.locator('#question-title').focus();await page.keyboard.press('Space');await expect(page.locator('.exam-top')).toContainText('1 / 60');
+ await page.locator('[data-choice="1"]').click();await page.keyboard.press('Space');await expect(page.locator('.exam-top')).toContainText('2 / 60');
+ await page.locator('[data-choice="2"]').click();await page.getByRole('button',{name:'시험 종료',exact:true}).click();await page.getByRole('button',{name:'계속 풀기',exact:true}).focus();await page.keyboard.press('Space');await expect(page.locator('dialog')).toHaveCount(0);await expect(page.locator('.exam-top')).toContainText('2 / 60');
+ await page.locator('[data-index="59"]').click();await page.locator('[data-choice="1"]').click();await page.keyboard.press('Space');await expect(page.locator('.exam-top')).toContainText('60 / 60');expect(await page.evaluate(key=>JSON.parse(localStorage.getItem(key)).submittedAt,EXAM)).toBeNull();
+ await expect(page.locator('.practice-explanation')).toHaveCount(0);
+});

diff --git a/src/practice.js b/src/practice.js
@@ -1,0 +1,40 @@
+import {eligible,shuffle,AREAS} from './model.js';
+export const PRACTICE_KEY='hazardous-materials-cbt:practice:v1';
+export const LEARNING_KEY='hazardous-materials-cbt:learning:v1';
+export function createPractice(bank,area='',random=Math.random,ids=null){
+ const pool=bank.filter(q=>eligible(q)&&(!area||q.area===area)&&(!ids||ids.includes(q.id)));
+ if(!pool.length)throw Error('학습할 문항이 없습니다.');
+ return {version:1,area,ids:shuffle(pool.map(q=>q.id),random),index:0,selected:null,answered:0,correct:0,streak:0,cycle:1};
+}
+export function choosePractice(p,bank,choice){
+ const q=bank.find(q=>q.id===p.ids[p.index]);
+ if(p.selected!==null||!q||!Number.isInteger(choice)||choice<1||choice>4)return p;
+ const correct=choice===q.answer;
+ return {...p,selected:choice,answered:p.answered+1,correct:p.correct+Number(correct),streak:correct?p.streak+1:0};
+}
+export function nextPractice(p,random=Math.random){
+ if(p.selected===null)return p;
+ if(p.index<p.ids.length-1)return {...p,index:p.index+1,selected:null};
+ const ids=shuffle(p.ids,random);
+ if(ids.length>1&&ids[0]===p.ids[p.index])[ids[0],ids[1]]=[ids[1],ids[0]];
+ return {...p,ids,index:0,selected:null,cycle:p.cycle+1};
+}
+export function restorePractice(raw,bank){
+ if(!raw||raw==='null')return null;
+ const p=JSON.parse(raw),pool=new Set(bank.filter(eligible).map(q=>q.id));
+ if(p.version!==1||!['',...AREAS].includes(p.area)||!Array.isArray(p.ids)||!p.ids.length||new Set(p.ids).size!==p.ids.length||p.ids.some(id=>!pool.has(id)||p.area&&bank.find(q=>q.id===id).area!==p.area)||!Number.isInteger(p.index)||p.index<0||p.index>=p.ids.length||p.selected!==null&&(!Number.isInteger(p.selected)||p.selected<1||p.selected>4)||!['answered','correct','streak','cycle'].every(k=>Number.isInteger(p[k])&&p[k]>=0)||p.correct>p.answered||p.streak>p.correct||p.cycle<1)throw Error('저장된 랜덤 학습 기록을 복원할 수 없습니다.');
+ return p;
+}
+export const emptyLearning=()=>({version:1,bookmarks:[],wrong:{},total:0,correct:0,areas:{},exams:[],completedExams:[]});
+export function restoreLearning(raw,bank){
+ if(!raw)return emptyLearning();
+ const s=JSON.parse(raw),ids=new Set(bank.map(q=>q.id));
+ if(s.version!==1||!Array.isArray(s.bookmarks)||s.bookmarks.some(id=>!ids.has(id))||!s.wrong||typeof s.wrong!=='object'||Array.isArray(s.wrong)||Object.entries(s.wrong).some(([id,a])=>!ids.has(id)||!Number.isInteger(a)||a<0||a>4)||!Number.isInteger(s.total)||!Number.isInteger(s.correct)||s.total<0||s.correct<0||s.correct>s.total||!s.areas||typeof s.areas!=='object'||!Array.isArray(s.exams)||!Array.isArray(s.completedExams)||s.completedExams.some(id=>typeof id!=='string')||s.exams.some(e=>!e||!Number.isFinite(e.at)||!Number.isFinite(e.score)||e.score<0||e.score>100||!Number.isInteger(e.correct)||e.correct<0||e.correct>60||typeof e.passed!=='boolean'))throw Error('학습 기록을 복원할 수 없습니다.');
+ for(const a of Object.values(s.areas))if(!a||!Number.isInteger(a.total)||!Number.isInteger(a.correct)||a.correct<0||a.total<a.correct)throw Error('학습 영역 기록이 올바르지 않습니다.');
+ return s;
+}
+export function recordAttempt(s,q,choice){
+ const correct=choice===q.answer,wrong={...s.wrong},a=s.areas[q.area]||{total:0,correct:0};
+ if(correct)delete wrong[q.id];else wrong[q.id]=choice||0;
+ return {...s,total:s.total+1,correct:s.correct+Number(correct),wrong,areas:{...s.areas,[q.area]:{total:a.total+1,correct:a.correct+Number(correct)}}};
+}

diff --git a/tests/practice.test.js b/tests/practice.test.js
@@ -1,0 +1,30 @@
+import {test} from 'node:test';
+import assert from 'node:assert/strict';
+import {fixtureBank} from './fixtures.js';
+import {AREAS} from '../src/model.js';
+import {createPractice,choosePractice,nextPractice,restorePractice,restoreLearning,emptyLearning,recordAttempt} from '../src/practice.js';
+const bank=fixtureBank();
+test('practice draws every eligible question exactly once before next cycle',()=>{
+ let p=createPractice(bank),seen=new Set();
+ for(let i=0;i<1000;i++){const id=p.ids[p.index];assert.ok(!seen.has(id));seen.add(id);p=choosePractice(p,bank,1);const before=p;p=choosePractice(p,bank,2);assert.equal(p,before);p=nextPractice(p);}
+ assert.equal(seen.size,1000);assert.equal(p.cycle,2);assert.equal(p.answered,1000);assert.equal(p.correct,1000);assert.equal(p.selected,null);
+});
+test('practice filters area and selected review IDs without changing original bank',()=>{
+ const a=createPractice(bank,AREAS[0]);assert.equal(a.ids.length,350);assert.ok(a.ids.every(id=>bank.find(q=>q.id===id).area===AREAS[0]));
+ assert.deepEqual(new Set(createPractice(bank,'',Math.random,[bank[0].id,bank[1].id]).ids),new Set([bank[0].id,bank[1].id]));assert.equal(bank.length,1000);
+ const b=structuredClone(bank);b[0].review.status='pending';assert.ok(!createPractice(b).ids.includes(b[0].id));assert.throws(()=>createPractice([]));
+});
+test('unanswered next is locked; correct/incorrect streak and statistics are independent',()=>{
+ let p=createPractice(bank);assert.equal(nextPractice(p),p);assert.equal(choosePractice(p,bank,0),p);
+ p=choosePractice(p,bank,1);assert.equal(p.streak,1);p=nextPractice(p);p=choosePractice(p,bank,2);assert.equal(p.streak,0);assert.equal(p.correct,1);assert.equal(p.answered,2);
+});
+test('practice restores exact order, answer and cycle; corrupt state is rejected',()=>{
+ const p=choosePractice(createPractice(bank),bank,1);assert.deepEqual(restorePractice(JSON.stringify(p),bank),p);
+ for(const patch of [{ids:['HM9999']},{index:-1},{selected:5},{correct:9999},{cycle:0},{ids:[p.ids[0],p.ids[0]]}])assert.throws(()=>restorePractice(JSON.stringify({...p,...patch}),bank));
+ assert.equal(restorePractice(null,bank),null);
+});
+test('wrong notes retain latest attempt and clear when answered correctly; statistics persist',()=>{
+ const q=bank[0];let s=recordAttempt(emptyLearning(),q,2);assert.equal(s.wrong[q.id],2);assert.equal(s.total,1);s=recordAttempt(s,q,1);assert.equal(s.wrong[q.id],undefined);assert.equal(s.correct,1);assert.equal(s.total,2);
+ s=recordAttempt(s,q,0);assert.equal(s.wrong[q.id],0);assert.deepEqual(restoreLearning(JSON.stringify(s),bank),s);
+ assert.throws(()=>restoreLearning(JSON.stringify({...s,correct:999}),bank));assert.throws(()=>restoreLearning(JSON.stringify({...s,exams:[{}]}),bank));
+});

diff --git a/index.html b/index.html
@@ -1,4 +1,4 @@
 <!doctype html>
 <html lang="ko"><head><meta charset="UTF-8"><meta name="viewport" content="width=device-width,initial-scale=1"><meta name="theme-color" content="#152d38"><meta name="description" content="위험물기능사 필기 CBT · 비공식 학습용 모의시험"><title>위험물기능사 필기 CBT 모의시험</title><link rel="stylesheet" href="./src/styles.css"></head>
-<body><aside><a class="brand" href="./"><span class="symbol">♧</span><span>위험물 <b>CBT</b><small>오늘의 한 문제, 합격에 한 걸음</small></span></a><p class="caption">MY LEARNING SPACE</p><nav><button data-view="home">▦　학습 대시보드</button><button data-view="exam">▤　실전 모의시험</button><button data-view="bank">▧　문제은행</button></nav><div class="aside-bottom">비공식 학습용 모의시험<br>공식 서비스가 아닙니다.</div></aside>
+<body><aside><a class="brand" href="./"><span class="symbol">♧</span><span>위험물 <b>CBT</b><small>오늘의 한 문제, 합격에 한 걸음</small></span></a><p class="caption">MY LEARNING SPACE</p><nav><button data-view="home">▦　학습 대시보드</button><button data-view="exam">▤　실전 모의시험</button><button data-view="practice">ϟ　랜덤 문제풀이</button><button data-view="wrong">▣　오답노트</button><button data-view="bookmarks">☆　북마크</button><button data-view="stats">▥　학습 통계</button><button data-view="bank">▧　문제은행 관리</button></nav><div class="aside-bottom">비공식 학습용 모의시험<br>공식 서비스가 아닙니다.</div></aside>
 <div class="shell"><header><span>자격증 공부, 나의 속도로</span><span class="badge">위험물기능사</span></header><div id="notice" role="status"></div><main id="app" tabindex="-1"><p>문제은행을 불러오는 중입니다.</p></main><footer>비공식 학습용 모의시험 · 자체 제작 예상문제 · Q-Net 및 한국산업인력공단과 무관 · <a href="./attribution.html">출처 및 이용 안내</a></footer></div><script type="module" src="./src/app.js"></script></body></html>

diff --git a/scripts/build-site.js b/scripts/build-site.js
@@ -5,6 +5,6 @@ const root=path.resolve(path.dirname(fileURLToPath(import.meta.url)),'..');
 const dest=path.join(root,'_site');
 await rm(dest,{recursive:true,force:true});
 for(const p of ['src','data'])await mkdir(path.join(dest,p),{recursive:true});
-for(const file of ['index.html','attribution.html','src/app.js','src/model.js','src/styles.css','data/questions.json','data/sources.json'])await copyFile(path.join(root,file),path.join(dest,file));
+for(const file of ['index.html','attribution.html','src/app.js','src/model.js','src/practice.js','src/styles.css','data/questions.json','data/sources.json'])await copyFile(path.join(root,file),path.join(dest,file));
 await copyFile(path.join(root,'.nojekyll'),path.join(dest,'.nojekyll'));
 console.log('정적 산출물: _site (시험 출제 자격과 별도이며 배포 전에 validate:release 필수)');

diff --git a/docs/TEST_RESULTS.md b/docs/TEST_RESULTS.md
@@ -8,9 +8,9 @@
 | 형식·중복·검수 기록 | **통과** | 연속 ID, 보기 4개, 정답 범위, 필수 필드, 정규화 중복, 문항 지문과 검수 기록 일치 |
 | 유사 문항 | 미해결 **0쌍** | 후보 14쌍은 별도 학습 목표로 내부 검토, 양쪽 지문과 판정 사유 보존 |
 | 출처 감사 | **통과** | 보존 자료 해시, 인용문 존재, 법령 시행일, 공식 세세항목 연결 |
-| `npm test` | **63개 통과**, 실패·건너뜀 0 | 실제 은행 검증, 추출·채점·복원, 변조 거부, 화학식·계산 검산 |
+| `npm test` | **68개 통과**, 실패·건너뜀 0 | 실제 은행 검증, 추출·채점·복원, 변조 거부, 화학식·계산 검산 |
 | 별도 계산 검사 | **32개 통과** | 30개 화학 계산 + CS₂ 몰질량 + 법정 소요단위, 원고 작성 코드와 별도 수식 사용 |
-| `npm run test:e2e` | **20개 통과**, 실패·건너뜀 0 | PC 10개·모바일 10개, 실제 은행과 기능용 fixture를 구분하여 실행 |
+| `npm run test:e2e` | **26개 통과**, 실패·건너뜀 0 | PC 13개·모바일 13개, 실제 은행과 기능용 fixture를 구분하여 실행 |
 | `npm run build` | **통과** | `_site/`에 상대 경로를 사용하는 정적 배포 파일 생성 |
 | GitHub Pages 공개 게시 | **미실행** | 워크플로와 배포 산출물 준비. 원격 푸시·공개 URL 동작을 검증한 결과는 아님 |
 
@@ -31,3 +31,11 @@
 ## 정확성 검토와 자동 검사의 차이
 
 자동 검사는 정답의 학문적 정확성을 보증하지 않습니다. 출처의 짧은 인용문이 일치하더라도 해설 전체의 정확성이 자동 입증되지는 않습니다. 화학반응식의 원자 수 보존 또한 반응 조건·속도·소화 적응성 검토를 대신하지 않습니다. 내용 검토의 범위·교체 이력·내부검수의 한계는 [CONTENT_REVIEW.md](CONTENT_REVIEW.md)에 기록했습니다. 외부 전문가의 독립검수나 Q-Net 인증을 받았다고 표시하지 않습니다.
+
+## v1.1 랜덤 학습 및 키보드 검증
+
+전기기능사 CBT의 7개 메뉴와 두 학습 모드 구성을 대조했습니다. 새 모델 검사 5개는 전체 1,000문항의 한 순회 비중복, 영역·선택 ID 필터, 중복 채점 방지, 연속 정답과 정답률, 정확한 순서 복원, 손상 데이터 거부 및 오답 갱신을 확인합니다.
+
+실제 은행을 이용한 PC·모바일 검사 6개는 즉시 채점·해설, Space 이동, 새로고침 후 이어하기, 오답 복습과 제거, 북마크, 누적 통계, 350/650 영역 선택을 확인합니다. Shift+Space·키 반복·선택창·북마크 버튼·제출 대화상자의 동작을 보존하고, 시험의 미응답 및 마지막 문제에서 Space가 제출·이동하지 않는지 검사했습니다.
+
+최초 추가 브라우저 검사에서는 메뉴의 북마크와 문항의 북마크 버튼을 같은 이름으로 찾아 테스트 선택자가 모호해졌습니다. 문항 영역으로 선택자를 한정한 후 다시 검사했습니다. 문항 데이터와 1,000개 검수 내용은 변경하지 않았습니다.

diff --git a/README.md b/README.md
@@ -18,6 +18,16 @@
 
 **내부검수는 외부 전문가의 독립검수 또는 공적 인증이 아닙니다.** 자동 검사 통과가 학문적 정확성을 보증하지 않습니다. [검수 과정과 한계](docs/CONTENT_REVIEW.md), [검증 결과](docs/TEST_RESULTS.md)를 구분해 기록했습니다.
 
+## 전기기능사 CBT와 같은 학습 구성 (v1.1)
+
+대시보드에 **실전 모의시험 / 랜덤 문제풀이**를 나란히 배치하고, 학습 대시보드·실전 모의시험·랜덤 문제풀이·오답노트·북마크·학습 통계·문제은행 관리의 7개 메뉴로 구성했습니다. 전기기능사 CBT의 네이비 시험 카드, 흰색 랜덤 학습 카드와 청록색 버튼 구성을 반영했습니다.
+
+- 랜덤 학습은 전체 또는 내부 A/B 영역을 선택하며, 한 순회 안에서 중복 없이 모든 문항을 풉니다. 답안 선택 즉시 정답·해설을 표시하고 같은 문항을 두 번 채점하지 않습니다.
+- 연속 정답·이번 학습 정답률을 표시합니다. 순서·현재 문항·선택 답·집계는 새로고침 후 복원하며, 대시보드에서 이전 학습을 이어갈 수 있습니다.
+- **스페이스바**: 랜덤 학습은 채점 후 다음 문항, 모의시험은 답안 선택 후 다음 문항으로 이동합니다. 미응답 문제를 건너뛰거나 마지막 시험 문제를 자동 제출하지 않습니다. 선택창·입력창·버튼·링크·출처 펼침·제출 대화상자의 기본 키보드 동작을 보존하고, 키를 계속 누르거나 보조키와 함께 누를 때 연속 이동하지 않습니다.
+- 틀린 문제와 미응답은 오답노트에 저장하며 재학습으로 맞히면 제외합니다. 북마크 문제만 모아서 풀 수도 있습니다. 누적 정답률·영역별 성적·최근 시험 기록을 학습 통계에 표시합니다.
+- 학습 기록은 이 위험물 CBT의 별도 localStorage 키를 사용합니다. 기존 전기기능사 프로그램과 기록을 수정하지 않습니다.
+
 ## 시험 기능
 
 - 1,000문항 중 중복 없이 60개 무작위 출제. A 21개·B 39개이며 영역 안에서는 세부 주제를 순환 배분합니다. 자체 학습 정책이며 공식 비율을 주장하지 않습니다.
@@ -42,8 +52,8 @@ Python 3의 정적 서버를 사용합니다. 모듈과 JSON을 불러오므로 
 
 ```bash
 npm run validate:release  # 1000개·검수 기록·출처·중복·공식 110개 항목 검사
-npm test                  # 63개 단위·출처·화학·계산 테스트
-npm run test:e2e          # 실제 은행 + 별도 기능용 fixture, PC/모바일 20개
+npm test                  # 68개 단위·출처·화학·계산·랜덤학습 테스트
+npm run test:e2e          # 실제 은행 + 별도 기능용 fixture, PC/모바일 26개
 npm run coverage          # docs/COVERAGE.md 갱신
 npm run build             # _site 정적 배포 파일 생성
 ```
